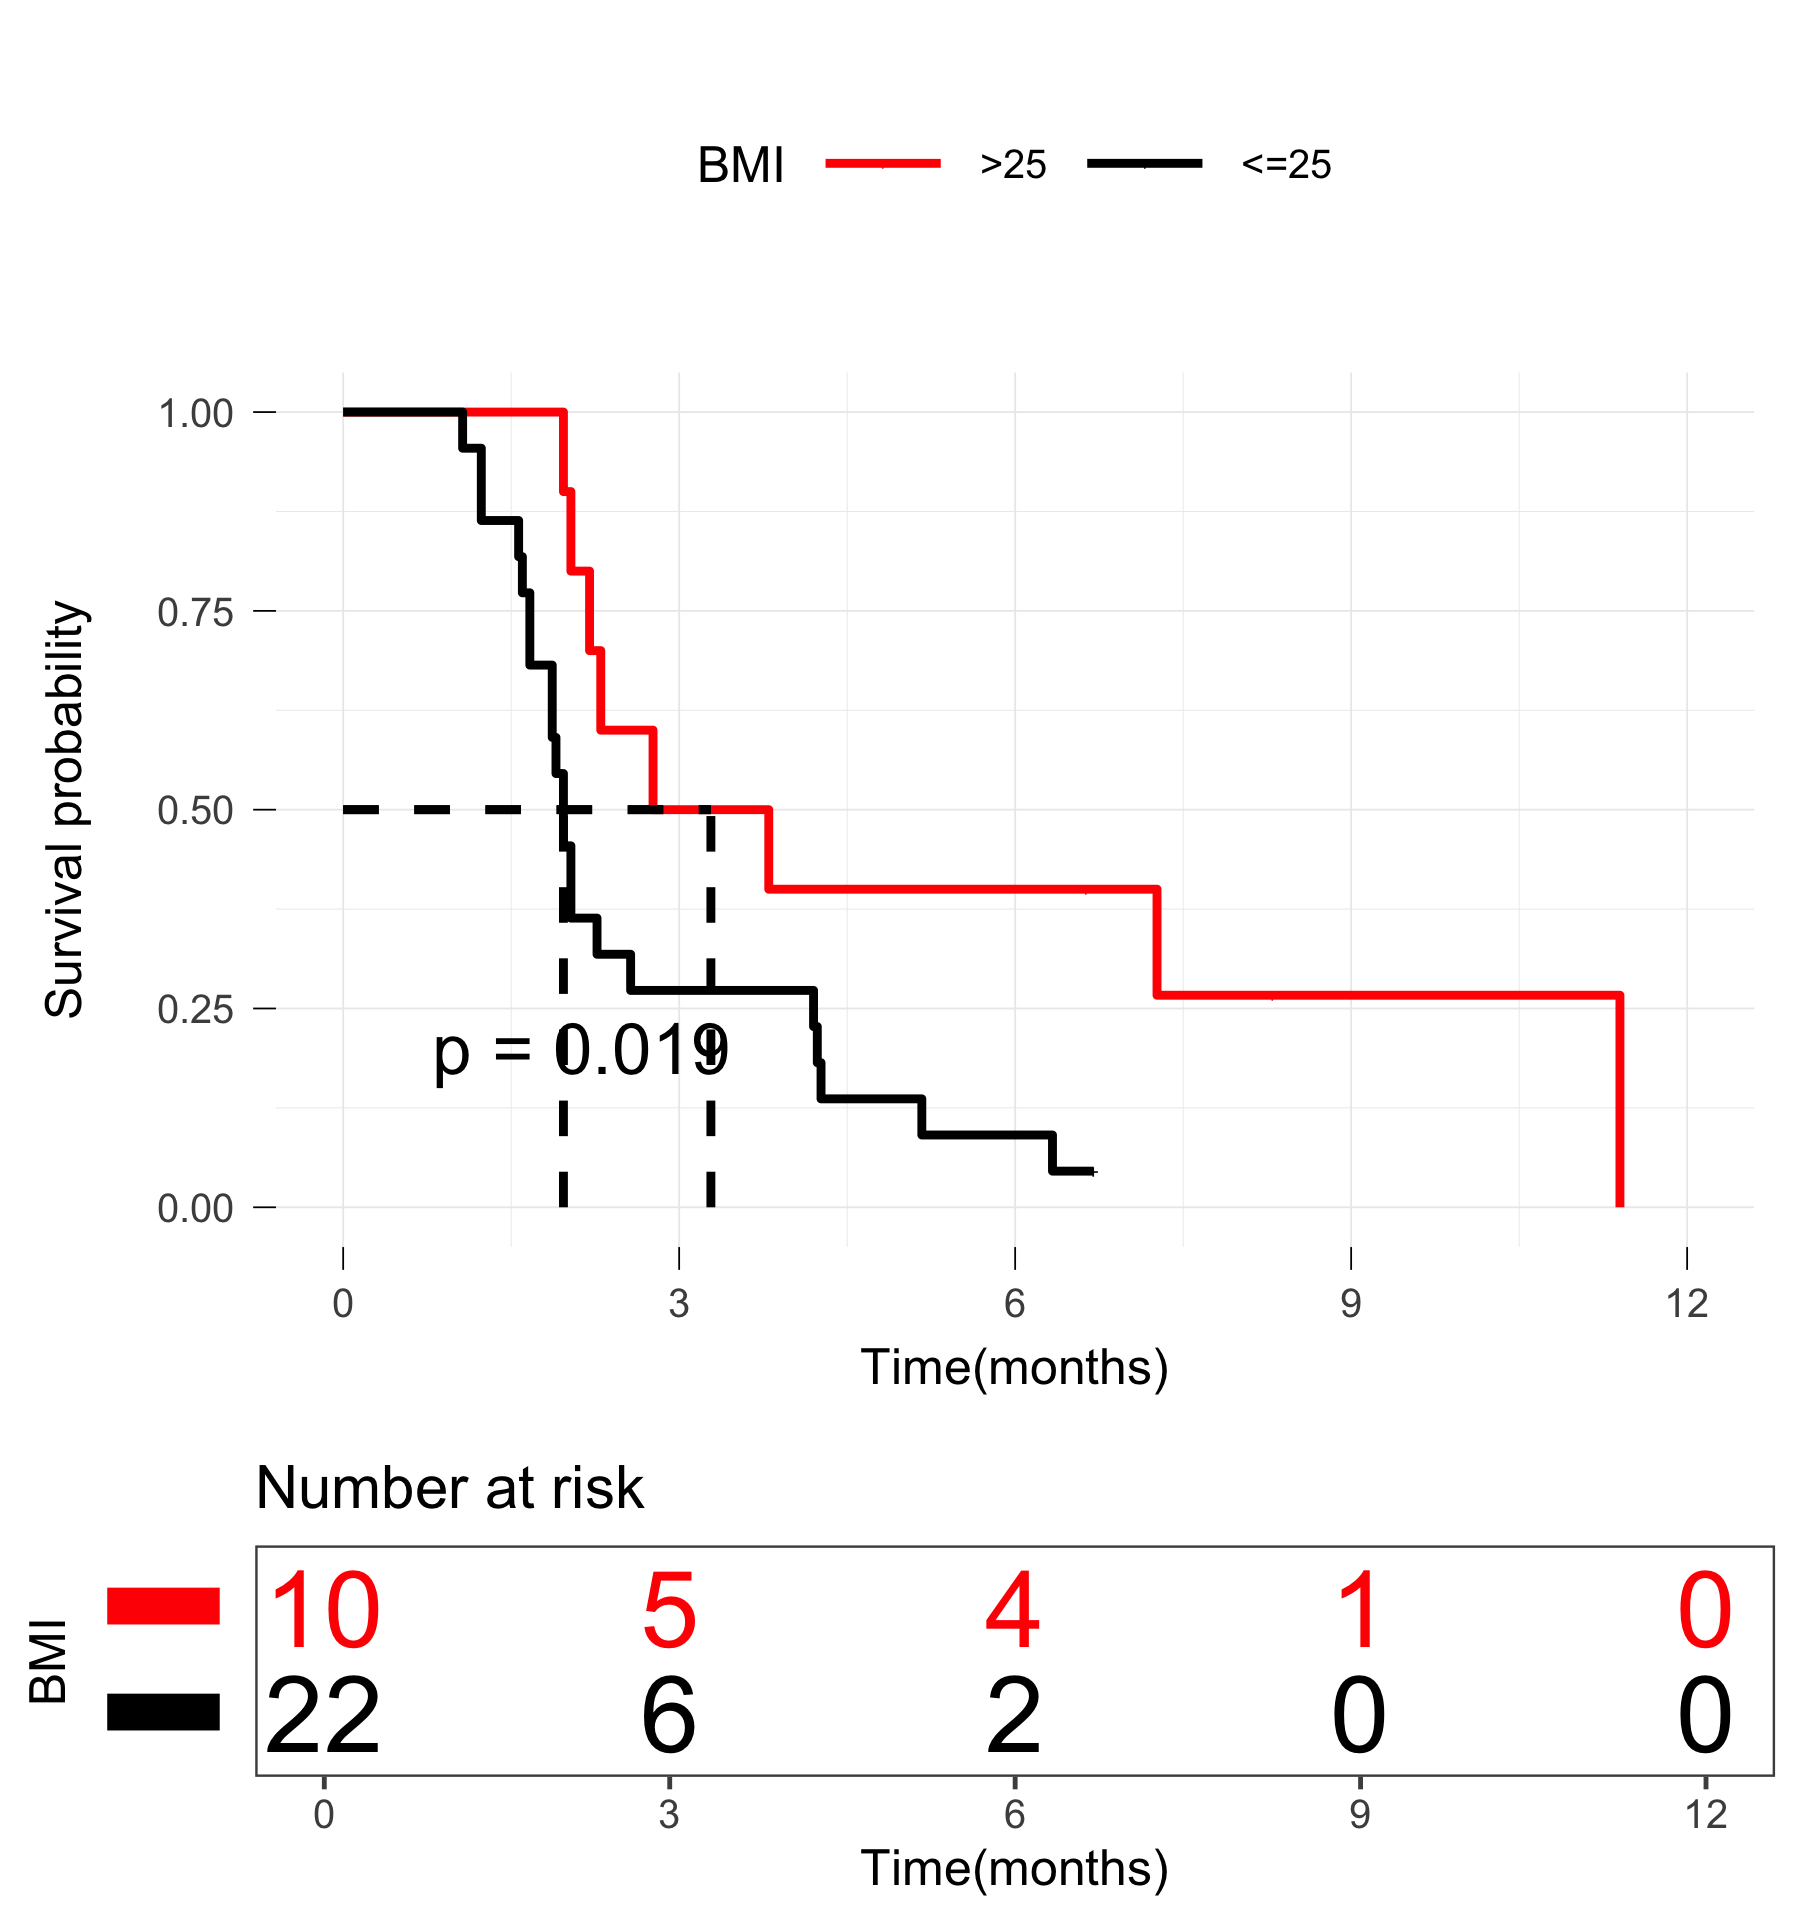
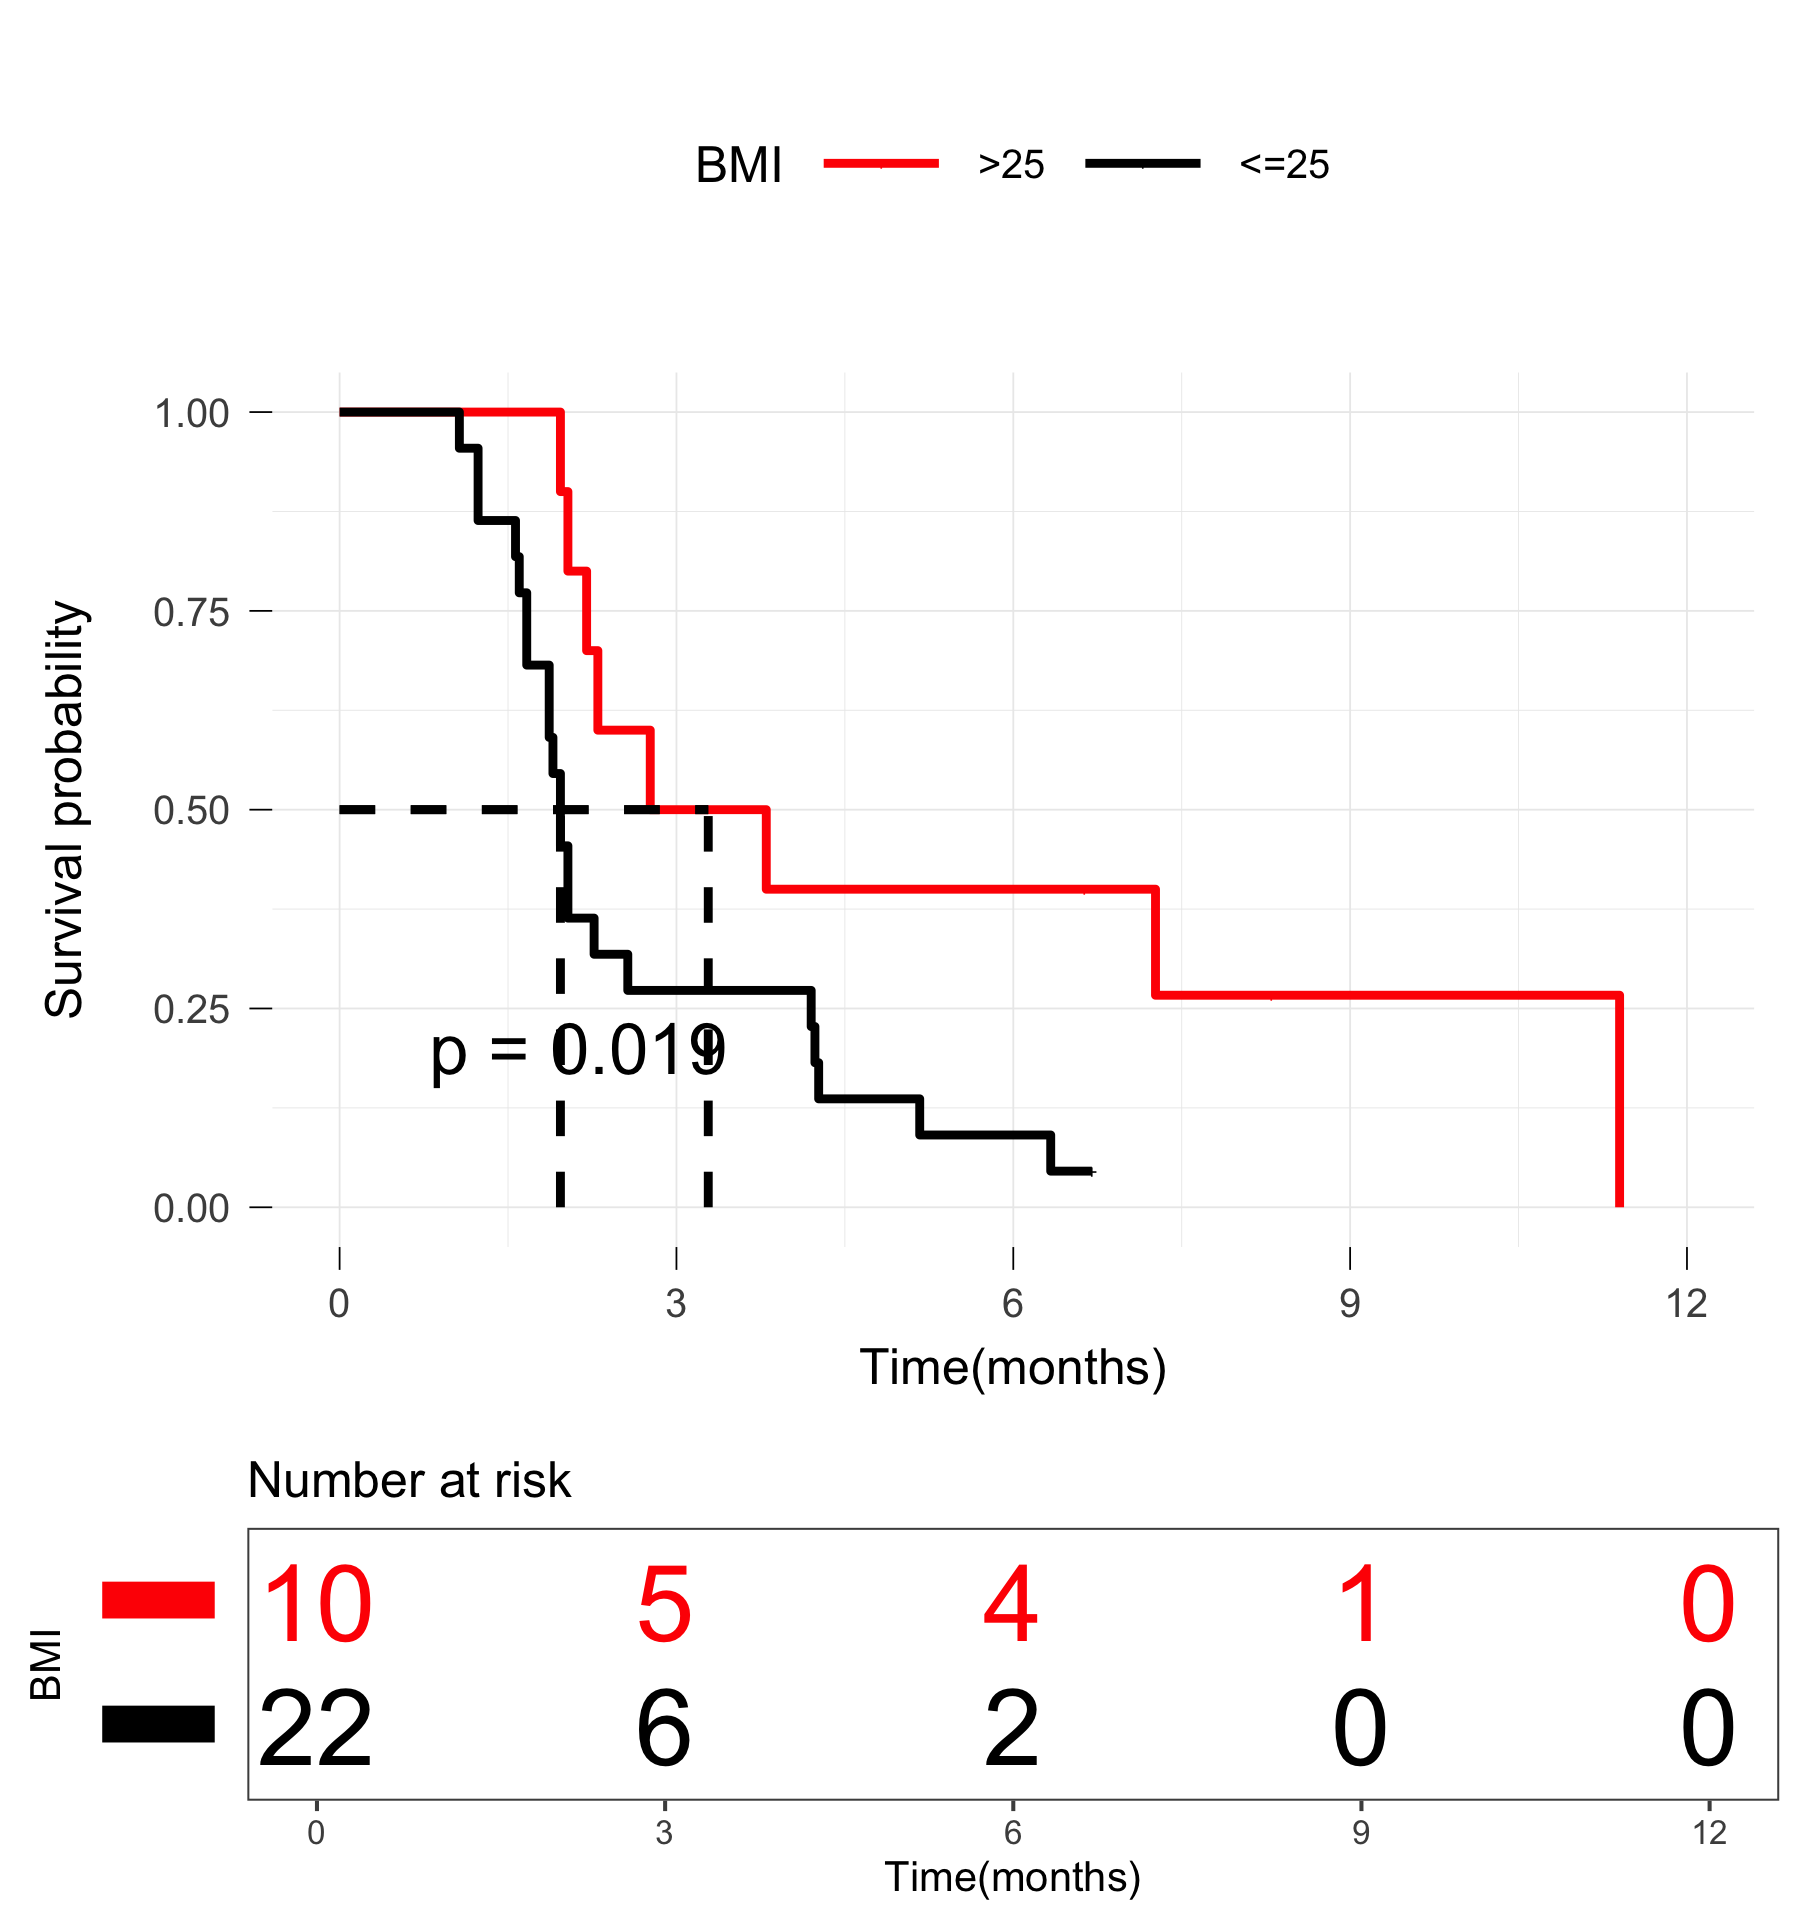
correlate the BMI and irAEs analysis publicdatasets

diff --git a/Analysis Ducoments/BMI_and_irAEs.md b/Analysis Ducoments/BMI_and_irAEs.md
@@ -91,7 +91,7 @@
 
     ggsurvplot(fit, data=data,xlab = "Time(months)",
                censor.size=0.5, size = 0.5,
-               tables.theme = theme_few(base_size = 6),
+               tables.theme = theme_few(base_size = 5),
                legend.labs = c(">25", "<=25"),
                     legend.title = "BMI",palette = c("red","black"),
                     risk.table = T,
@@ -181,19 +181,19 @@
     index<-colnames(df4)[-9]
     data<-bind_rows(select(df1,index),select(df2,index),select(df3,index),select(df4,index))
     p1<-ggscatter(data, x = "Firmicutes", 
-              y = "Bacteroidetes",size=0.5,alpha=0.4,color="datasets",cor.method = "spearman",mean.point = T,
-              palette = "jco",add.params = list(alpha=0.5,size=0.5), ggtheme = theme_few(base_size = 6),
+              y = "Bacteroidetes",size=1,alpha=0.4,color="datasets",cor.method = "spearman",mean.point = T,
+              palette = "jco",add.params = list(alpha=0.5,size=1), ggtheme = theme_few(base_size = 8),
               add = "reg.line", conf.int = TRUE)+
-      stat_cor(aes(color=datasets),label.x = 0.55,size=1)+
-      theme(legend.text = element_text(size=6))
+      stat_cor(aes(color=datasets),label.x = 0.55,size=6)+
+      theme(legend.text = element_text(size=8))
 
     p2<-ggscatter(data, x = "Firmicutes", mean.point = T,cor.method = "spearman",
-              ggtheme = theme_few(base_size = 6),
-              y = "Bacteroidetes",size=0.5,alpha=0.4,color="Cancer",
+              ggtheme = theme_few(base_size = 8),
+              y = "Bacteroidetes",size=1,alpha=0.4,color="Cancer",
               palette = "jco",add.params = list(alpha=0.5,size=1),
               add = "reg.line", conf.int = TRUE)+
-      stat_cor(aes(color=Cancer),label.x = 0.55,size=1)+
-      theme(legend.text = element_text(size=6))
+      stat_cor(aes(color=Cancer),label.x = 0.55,size=6)+
+      theme(legend.text = element_text(size=8))
 
     plot_grid(p1,p2,labels = c("A","B"), ncol =2, nrow = 1)
 
